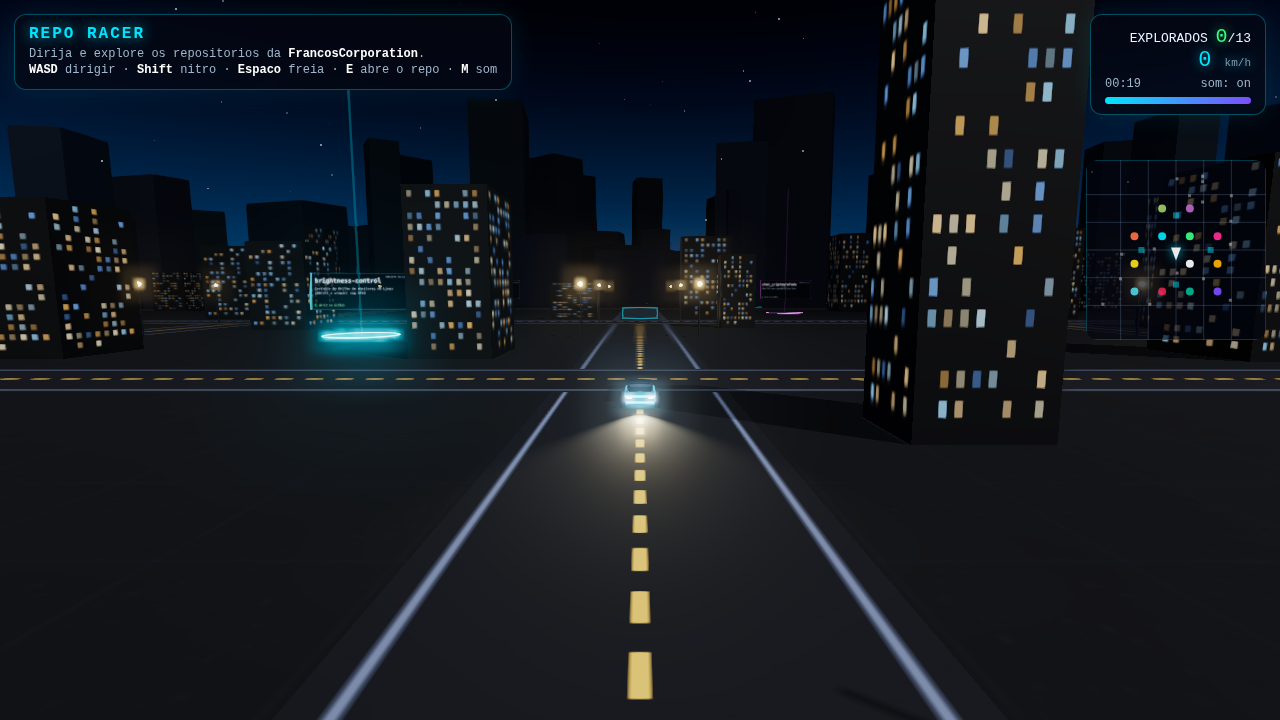
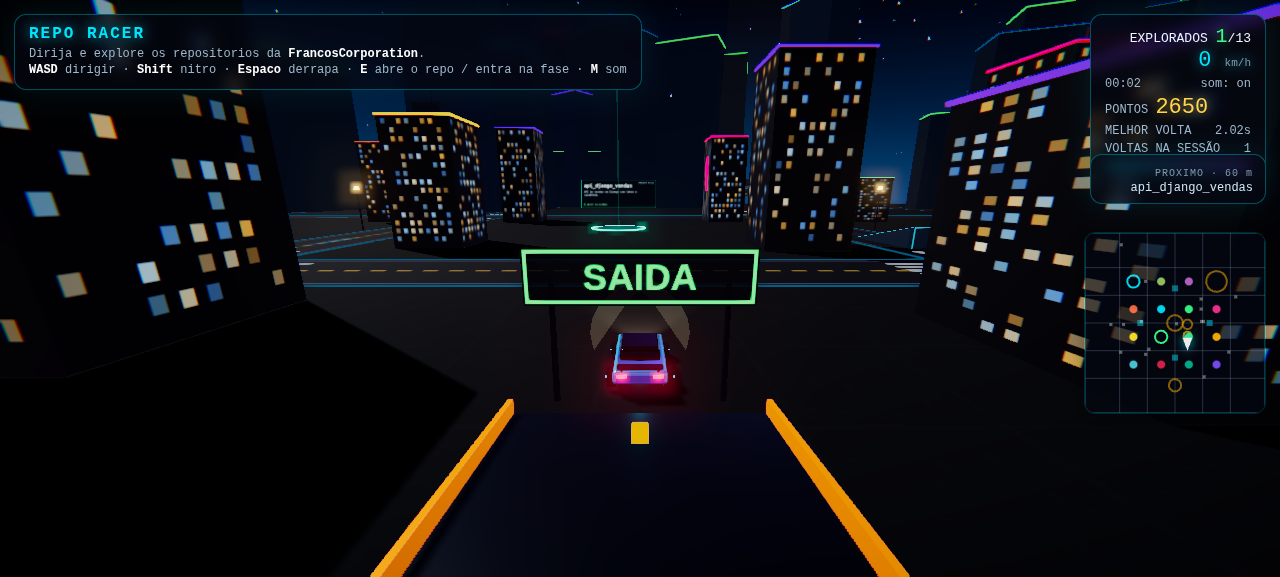
feat(acessibilidade): respeita prefers-reduced-motion + preconnect no CDN + docs coerentes + preview atual
- REDUCED_MOTION zera shake/roll/FOV pulsante/bob da seta GPS/pulso dos pads e animacoes CSS de HUD; gameplay intacto, exposto em __rr.reducedMotion()
- placa SAIDA agora de frente para o sul (estava espelhada no verso DoubleSide)
- README: seis fases (era cinco), SEGV fase 6 (era 5), SMAA so no desktop, selCar no debug
- MELHORIAS-LOOPING.md: serie de commits e backlog zerado
- preview.png regenerado (cena atual, placa SAIDA legivel)

diff --git a/index.html b/index.html
@@ -3,6 +3,7 @@
 <head>
 <meta charset="utf-8" />
 <meta name="viewport" content="width=device-width, initial-scale=1, maximum-scale=1, user-scalable=no" />
+<link rel="preconnect" href="https://cdn.jsdelivr.net" crossorigin />
 <title>Repo Racer — FrancosCorporation</title>
 <style>
   :root { --cyan: #00e5ff; --magenta: #ff2d95; --green: #39ff88; --bg: #04060f; --tbtn: clamp(58px, 9vw, 84px); }
@@ -42,6 +43,13 @@
   #combo { color: var(--magenta); font-weight: bold; text-shadow: 0 0 14px rgba(255,45,149,1); }
   #combo.hot { font-size: 18px; animation: comboPop .3s ease; }
   @keyframes comboPop { 0% { transform: scale(1); } 40% { transform: scale(1.25); } 100% { transform: scale(1); } }
+  /* movimento reduzido: sem pulso de logo/combo nem transicoes de HUD */
+  @media (prefers-reduced-motion: reduce) {
+    #start .logo { animation: none; }
+    #combo.hot { animation: none; }
+    #toast { transition: none; }
+    #start { transition: none; }
+  }
   #toast { position: fixed; top: 104px; left: 50%; transform: translateX(-50%); font-size: 15px; letter-spacing: 2px; color: var(--green); text-shadow: 0 0 14px rgba(57,255,136,.9); opacity: 0; transition: opacity .25s ease; z-index: 15; pointer-events: none; }
   #toast.show { opacity: 1; }
   #bosshud { top: 14px; left: 50%; transform: translateX(-50%); min-width: 340px; display: none; }
@@ -311,6 +319,9 @@ const clamp = (v, a, b) => Math.max(a, Math.min(b, v));
 const params = new URLSearchParams(location.search);
 const shotMode = params.has('shot');
 const LOW_END = /Android|iPhone|iPad|iPod|Mobile/i.test(navigator.userAgent) || window.matchMedia('(pointer: coarse)').matches || (navigator.hardwareConcurrency || 4) <= 4;
+/* movimento reduzido (SO/navegador): zera shake de camera, roll do laco, FOV
+   pulsante, bob da seta GPS e pulso dos pads — o jogo segue 100% jogavel */
+const REDUCED_MOTION = window.matchMedia('(prefers-reduced-motion: reduce)').matches;
 
 const renderer = new THREE.WebGLRenderer({ antialias: true, powerPreference: 'high-performance' });
 renderer.setPixelRatio(Math.min(window.devicePixelRatio, LOW_END ? 1.25 : 1.8));
@@ -1232,8 +1243,10 @@ const wrapPi = (a) => a - Math.round(a / (Math.PI * 2)) * Math.PI * 2;
     const sm = new THREE.MeshBasicMaterial({ map: signTex, transparent: true, toneMapped: false, side: THREE.DoubleSide });
     const sign = new THREE.Mesh(new THREE.PlaneGeometry(7.2, 1.8), sm);
     sign.position.set(LOOP.x, 4.3, zz);
-    // o plano nasce olhando para +z (norte); a placa do SUL precisa girar para
-    // ser lida por quem chega dirigindo para o norte
+    // o plano nasce olhando para +z (norte); como todo mundo trafega para o
+    // norte aqui, as DUAS placas precisam girar (ficar de frente para o sul)
+    // para serem lidas por quem se aproxima — sem o giro o motorista vê o
+    // verso espelhado através do material DoubleSide (bug flagrado no preview)
     if (flip) sign.rotation.y = Math.PI;
     scene.add(sign);
     const post = new THREE.Mesh(new THREE.CylinderGeometry(0.09, 0.12, 4.3, 8), pilarMat || new THREE.MeshStandardMaterial({ color: 0x1a2230 }));
@@ -1244,7 +1257,7 @@ const wrapPi = (a) => a - Math.round(a / (Math.PI * 2)) * Math.PI * 2;
     scene.add(post2);
   };
   makeLoopSign('ENTRADA\nMIN ' + Math.round(LOOP_NEED_V * 4) + ' KM/H', 0xffb300, LOOP.z - 24.5, true);
-  makeLoopSign('SAIDA', 0x39ff88, LOOP.z + 21.5, false);
+  makeLoopSign('SAIDA', 0x39ff88, LOOP.z + 21.5, true);
   // boost pads na pista de entrada: garantem a velocidade minima do laco
   var loopBoostPads = [
     { dz: -18.5, used: 0 },
@@ -4047,14 +4060,14 @@ function present(dt) {
      (roll = up do carro, (0, cos a, -sin a)) — a inversao de cabeca pra baixo
      aparece na tela, nao so no chassi. O alvo e eased em y/z (sem estalo na
      entrada/saida) e o FOV ganha +10 de velocidade durante o passeio. */
-  const tUpY = state.looping ? Math.cos(state.loopA) : 1;
-  const tUpZ = state.looping ? -Math.sin(state.loopA) : 0;
+  const tUpY = (state.looping && !REDUCED_MOTION) ? Math.cos(state.loopA) : 1;
+  const tUpZ = (state.looping && !REDUCED_MOTION) ? -Math.sin(state.loopA) : 0;
   const kUp = Math.min(1, dt * 5);
   camUpY += (tUpY - camUpY) * kUp;
   camUpZ += (tUpZ - camUpZ) * kUp;
   const upL = Math.hypot(camUpY, camUpZ) || 1;
   camera.up.set(0, camUpY / upL, camUpZ / upL);
-  const targetFov = 62 + clamp(Math.abs(state.speed) * 0.4, 0, state.boosting ? 20 : 14) + (state.looping ? 10 : 0);
+  const targetFov = 62 + clamp(Math.abs(state.speed) * 0.4, 0, state.boosting ? 20 : 14) + ((state.looping && !REDUCED_MOTION) ? 10 : 0);
   camera.fov += (targetFov - camera.fov) * Math.min(1, dt * 3);
   camera.updateProjectionMatrix();
 
@@ -4069,7 +4082,8 @@ function present(dt) {
     camera.lookAt(tmpVec2);
     shake = Math.max(0, shake - dt * 1.6);
     const sp = Math.abs(state.speed);
-    const shakeAmp = shake * 0.5 + Math.min(0.16, sp * 0.004);
+    // movimento reduzido: camera firme (sem tremor de batida/velocidade)
+    const shakeAmp = REDUCED_MOTION ? 0 : shake * 0.5 + Math.min(0.16, sp * 0.004);
     if (shakeAmp > 0.01) {
       camera.position.x += (Math.random() - 0.5) * shakeAmp;
       camera.position.y += (Math.random() - 0.5) * shakeAmp;
@@ -4088,7 +4102,7 @@ function present(dt) {
     wayDist.textContent = Math.round(Math.hypot(wdx, wdz)) + ' m';
     // holograma 3D: flutua ~6m a frente do carro, aponta o destino e respira
     wayArrowBob += dt;
-    const bob = Math.sin(wayArrowBob * 3.2) * 0.16;
+    const bob = REDUCED_MOTION ? 0 : Math.sin(wayArrowBob * 3.2) * 0.16;
     wayArrowMesh.position.set(
       car.position.x + Math.sin(state.heading) * 6,
       state.y + 2.05 + bob,
@@ -4096,19 +4110,20 @@ function present(dt) {
     );
     wayArrowMesh.rotation.y = state.heading + rel;
     wayArrowMesh.rotation.x = -state.slope * 0.5;
-    wayArrowMesh.scale.setScalar(0.92 + Math.sin(wayArrowBob * 5.1) * 0.08);
+    wayArrowMesh.scale.setScalar(REDUCED_MOTION ? 1 : 0.92 + Math.sin(wayArrowBob * 5.1) * 0.08);
     wayArrowMesh.visible = true;
   } else if (wayArrowMesh.visible) {
     wayArrowMesh.visible = false;
   }
-  // cenario vivo do looping: luz respirando, halo orbitando, pads pulsando
   if (loopLight) {
-    const lt = performance.now() / 1000;
-    loopLight.intensity = 90 + Math.sin(lt * 2.2) * 22;
+    // cenario vivo: luz respirando, halo orbitando, pads pulsando
+    // (movimento reduzido: nivel fixo medio, halo parado)
+    const lt = REDUCED_MOTION ? 0.9 : performance.now() / 1000;
+    loopLight.intensity = REDUCED_MOTION ? 90 : 90 + Math.sin(lt * 2.2) * 22;
     const halo = loopLight.userData.halo;
     if (halo) halo.position.set(LOOP.x + Math.cos(lt * 0.9) * 15, LOOP.R + 5 + Math.sin(lt * 1.3) * 4, LOOP.z + Math.sin(lt * 0.9) * 15);
     for (const pad of loopLight.userData.pulse) {
-      pad.mesh.material.opacity = pad.used > 0 ? 0.95 : 0.4 + Math.sin(lt * 5 + pad.dz) * 0.16;
+      pad.mesh.material.opacity = pad.used > 0 ? 0.95 : (REDUCED_MOTION ? 0.4 : 0.4 + Math.sin(lt * 5 + pad.dz) * 0.16);
     }
   }
   // semaforo do laco: o portal sul fica verde quando a velocidade ja da pra
@@ -4324,6 +4339,7 @@ if (params.has('debug')) {
     resetCrash: () => { crashCd = 0; },
     instancedCounts: () => scene.children.filter((o) => o.isInstancedMesh).map((o) => o.count),
     antennaCount: () => antennaTips.length,
+    reducedMotion: () => REDUCED_MOTION,
     step: (n = 1) => { for (let i = 0; i < n; i++) { update(FIXED_DT); present(FIXED_DT); } },
   };
   // fantasma do recorde anterior volta junto (usa scene/ensureLoopGhost —

diff --git a/README.md b/README.md
@@ -72,7 +72,7 @@ aquecimento, circuito de portais, zona de drift, caçada, o laço infinito e o c
 - **Derrapagem lateral de verdade** — física com trajetória atrasada: a traseira
   escapa para o lado com inércia e atrito (não só visual), o carro perde
   velocidade no deslize e o chefão SEGV também derrapa fechando curva
-- **Fases em círculos**: cinco arenas circulares com desafios próprios e
+- **Fases em círculos**: seis arenas circulares com desafios próprios e
   desbloqueio por pontuação (veja [Fases](#fases))
 - **Trânsito com colisão**: carros circulam pelas avenidas e te atrapalham —
   agora com rodas, cabine escura e faixa de vidro, e **sem escalar as rampas**
@@ -135,7 +135,7 @@ aquecimento, circuito de portais, zona de drift, caçada, o laço infinito e o c
 - **HUD** com velocidade, nitro, pontos/combo, progresso e painel do repositório
 - **Controles de toque** para celular (com botão DERRAPA) e **suporte a
   gamepad** (analógico + botões)
-- **Qualidade adaptativa**: detecta mobile/GPU fraca e reduz sombras/pixel ratio (sem SMAA)
+- **Qualidade adaptativa**: detecta mobile/GPU fraca e reduz sombras/pixel ratio (SMAA só no desktop)
 - **Timestep fixo** de física (60 Hz) e limpeza de recursos ao sair
 
 ## Como jogar
@@ -158,7 +158,7 @@ recorde de pontos antes que o tempo acabe.
 
 ## Fases
 
-Espalhados pela cidade existem **cinco círculos de fase**. Chegue em cima de um
+Espalhados pela cidade existem **seis círculos de fase**. Chegue em cima de um
 deles: o HUD mostra o desafio e você escolhe a **dificuldade** (FÁCIL/MÉDIO/DIFÍCIL,
 botões no painel ou teclas **1/2/3**; **E** começa no médio). Cada fase tem
 objetivo, cronômetro e recompensa próprios, e as seguintes **abrem conforme a
@@ -204,7 +204,7 @@ destruí-los (+350 cada) — fora dessa janela você perde uma vida.
 
 ## O Chefão
 
-A fase 5 é o duelo contra **SEGV**, a máquina caçadora — o mesmo combate que
+A fase 6 é o duelo contra **SEGV**, a máquina caçadora — o mesmo combate que
 abre no botão **ENFRENTAR O CHEFÃO** depois de explorar os 13 repositórios.
 Atalho direto para o combate: `index.html?boss=1`.
 
@@ -230,7 +230,7 @@ https://francoscorporation.github.io/repo-racer/
 - **WebAudio** — som do motor e dos pneus gerado em tempo real
 - **HTML/CSS/JS puro** — sem build, sem dependências instaladas
 - **Debugar fácil**: com `?debug=1` o console ganha `window.__rr` para dirigir a
-  cena em testes (`setCar`, `setAir`, `step`, `carState`, `loopState`,
+  cena em testes (`setCar`, `selCar`, `setAir`, `step`, `carState`, `loopState`,
   `startPhase`, `phaseState`, `phaseStatus`, `enemies`, `startBoss`, `getBoss`,
   `damageBoss`, `hurtPlayer`, `bossEnd`, `resetScore`, `resetProgress`, `keys`,
   `traffic`, `buildings`, `sparksCount`, `bumperDent`, `puddles`, `windowGlow`,

diff --git a/MELHORIAS-LOOPING.md b/MELHORIAS-LOOPING.md
@@ -3,8 +3,10 @@
 > Documento de trabalho da verificação do **looping estilo Hot Wheels** (e do
 > entorno) do Repo Racer. Reúne o diagnóstico com evidências medidas, as
 > correções aplicadas no `index.html`/`README.md` e o roteiro de validação.
-> Tudo o que está marcado como ✅ foi implementado neste commit; o que ficou
-> fora está no backlog (seção 6).
+> Série de commits: `3474c07` (B1–B9) → `de60ef0` (backlog 1–6) →
+> `408b068` (cronômetro `loopTSim`) → `64cb15f` (docs) → `31773a5`
+> (ghost persistente, snap de câmera, TANK). Tudo marcado como ✅ está
+> implementado e validado em Chrome headless; não há backlog pendente.
 
 ---
 
